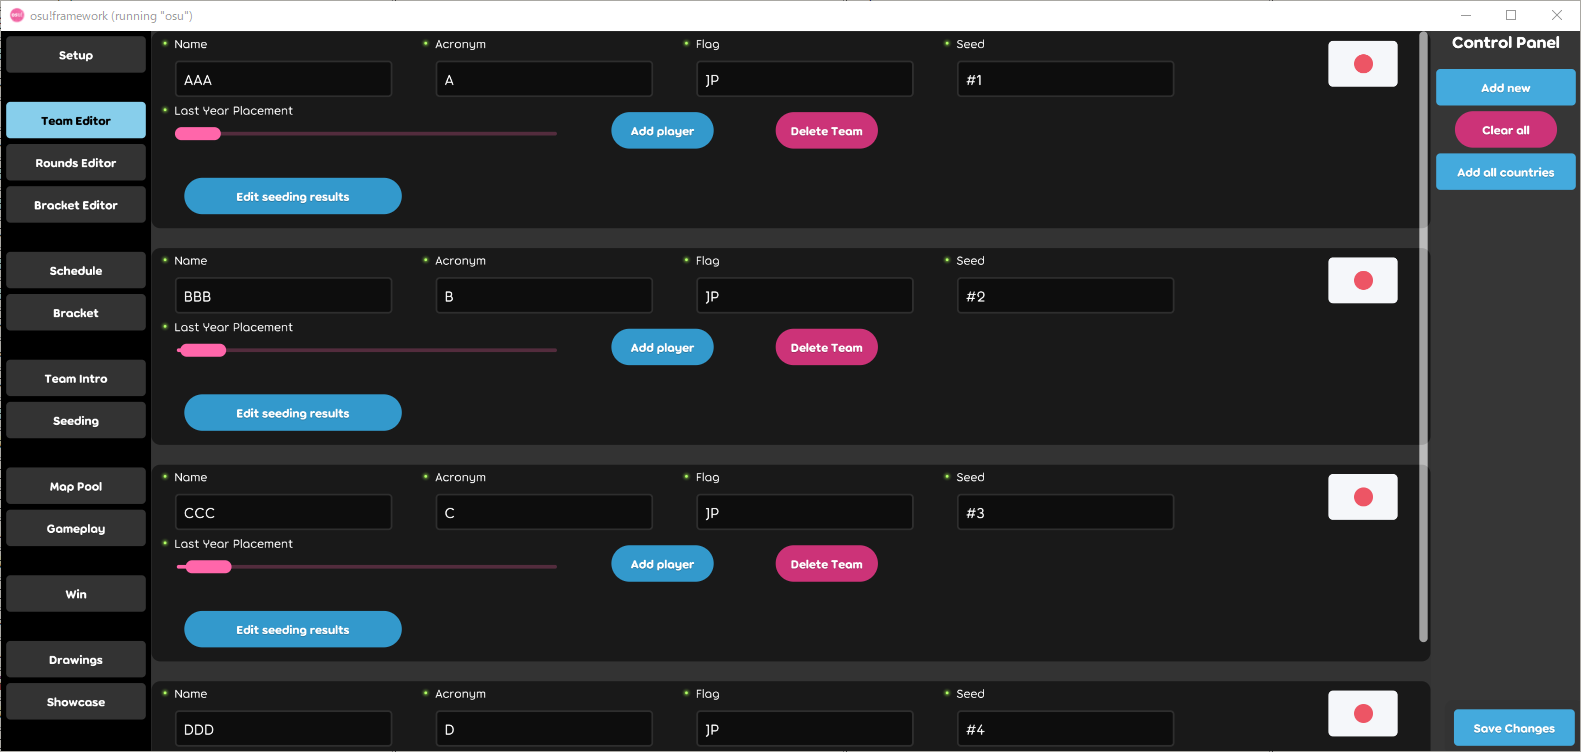
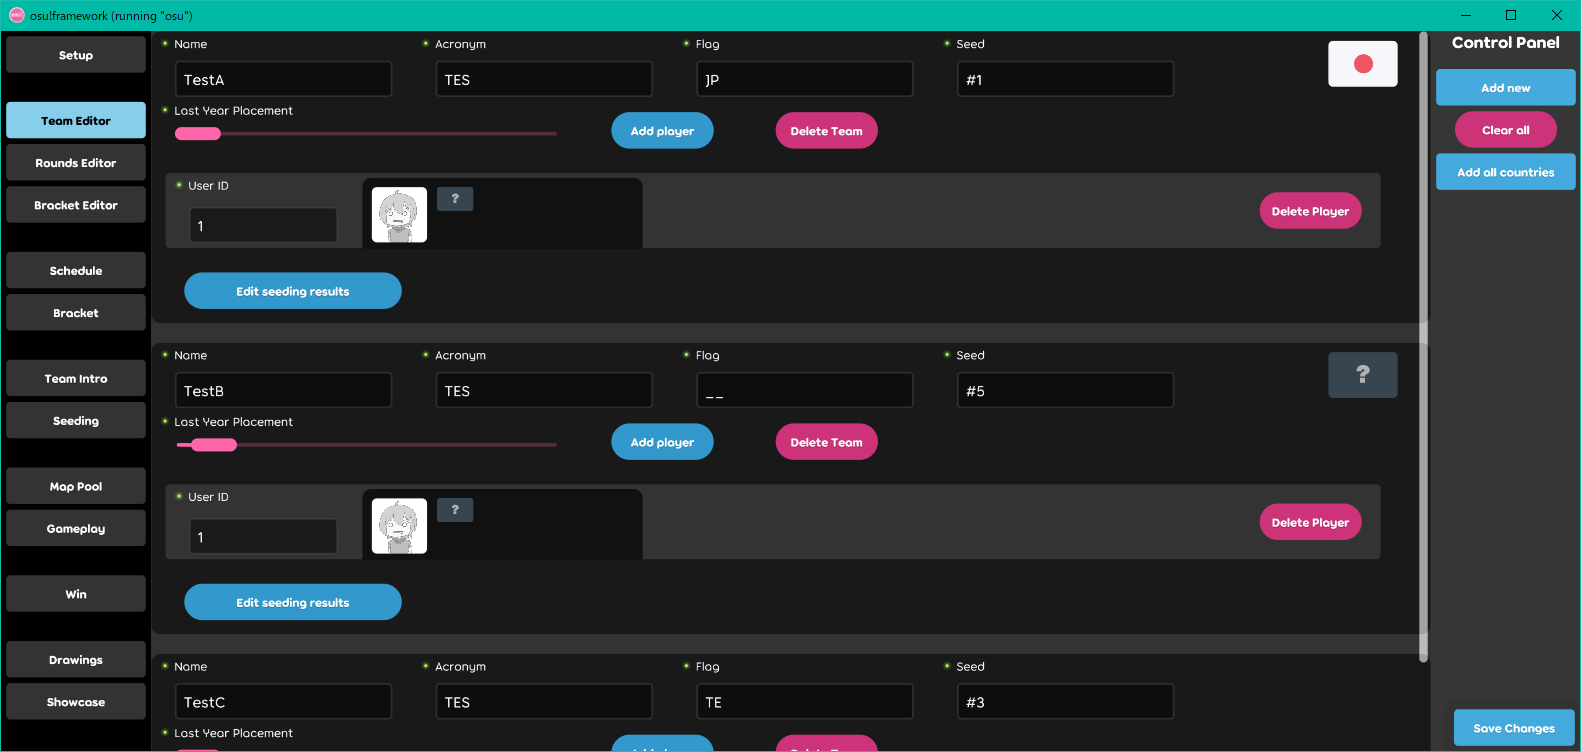
2022/01/16 progress

diff --git a/docs/osu_lazer/team_editor.md b/docs/osu_lazer/team_editor.md
@@ -1,5 +1,5 @@
 ---
-sidebar_position: 3
+sidebar_position: 4
 ---
 
 # Team Editor
@@ -14,27 +14,65 @@ Team Editorでは参加するチームとプレイヤーの情報を登録しま
 
 ### ① Name
 
+チーム(プレイヤー)名を入力する欄です。
+
 ### ② Acronym
+
+いろんな場面で使われる略称名です。プレイヤー名の場合いい感じにしてあげましょう。
 
 ### ③ Flag
 
+そのチーム(プレイヤー)の国を指定します。国名は大文字で、`ISO 3166-1 alpha-2`基準で入力します。特殊な国名として`__`が存在し、不明な国の場合に使うことができます。
+
+:::note カスタムフラグアイコンを使用する
+
+カスタムフラグアイコンを使用するには、プリセットフォルダーに`Flags`フォルダーを作成して、任意の名前で画像ファイルを入れるだけです。
+
+使用するには、Flagの入力欄に画像ファイルの名前と同じ名前を入れることで使用できます。
+
+:::
+
 ### ④ Seed
+
+簡単に言えば予選の総合順位を入力する場所です。Seedingで使用するテキストですが、単純にこの入力欄に入力された文字のままSeedingで使われるため、順位を入力する場合は`#1`のように入力したほうが良いです。
 
 ### ⑤ Last Year Placement
 
+前回開かれたときの最終順位を入れる欄です。初回の場合は全員1位にしたりするのがいいです。
+
 ### ⑥ Add player
 
+チームにプレイヤーを追加します。チームではない場合も追加しておいた方が良いです。
+
 ### ⑦ Delete Team
+
+チーム(プレイヤー)を削除します。
+
+### ⑧ User ID
+
+参加するプレイヤーのユーザーIDを入力します。ユーザーIDはosu!の公式webページのプレイヤープロフィールのURLに`https://osu.ppy.sh/users/<ユーザーID>`という形で存在します。
+
+### ⑨ Delete Player
+
+プレイヤーを削除します。
 
 ## Control Panel
 
 ### ① Add new
 
+チーム(プレイヤー)を作成します。
+
 ### ② Clear all
+
+追加したチーム(プレイヤー)をすべて削除します。
 
 ### ③ Add all countries
 
+内部に登録されている全部の国を一度に追加します。世界大会などに有効です。
+
 ## Edit seeding results
+
+この画面は予選結果を入力する画面になります。予選が存在しない場合は入力する必要ありません。
 
 ![ESR](/img/osu_lazer/esr.png)
 
@@ -42,22 +80,42 @@ Team Editorでは参加するチームとプレイヤーの情報を登録しま
 
 ### ① Mod
 
+Mod名を入力します。FreeModなら`FM`だったり、NoModだったら`NM`と書いたりします。
+
 ### ② Seed(Mod別)
+
+そのMod内での順位を入力する欄です。
 
 ### ③ Add beatmap
 
+Modに対応した譜面を追加します。
+
 ### ④ Beatmap ID
+
+譜面IDを入力します。BeatmapIDとBeatmapsetIDが存在しますが、こちらではBeatmapIDの方になります。BeatmapIDはosu!の公式webページの譜面情報のURLに`https://osu.ppy.sh/beatmapsets/<Beatmap*set*ID>#<モード名>/<BeatmapID>`という形で存在します。
 
 ### ⑤ Seed(譜面別)
 
+その譜面内での順位を入力する欄です。
+
 ### ⑥ Score
+
+その譜面のスコアを入力する欄です。
 
 ### ⑦ Delete Beatmap
 
+譜面を削除します。
+
 ### ⑦ Delete result
+
+そのModの結果を削除します。
 
 ## Control Panel
 
 ### ① Add new
 
+結果を追加します。
+
 ### ② Clear all
+
+全部の結果を削除します。

diff --git a/docs/osu_lazer/setup.md b/docs/osu_lazer/setup.md
@@ -1,5 +1,5 @@
 ---
-sidebar_position: 2
+sidebar_position: 3
 ---
 
 # Setup
@@ -12,10 +12,39 @@ Setupではオーバーレイを使う際の初期設定的なものをします
 
 ## ① Current IPC source
 
+トーナメントクライアントのフォルダーを指定するところです。フォルダーを指定をするポップアップに少々癖がありますが、基本的には`..`を押すと表示されている階層フォルダーの上の階層に移動し、フォルダーを押すとそのフォルダーに移動します。インストールされているトーナメントクライアントのフォルダー階層に移動したら`Select stable path`を押すことで適切な場合設定できます。
+
+:::caution 注意
+
+指定する際に、トーナメントクライアントに空の`ipc.txt`を作成する必要があります。作成をしないと`Select stable path`を押しても以下のメッセージが表示されて指定ができません。
+
+![IPC Invalid](/img/osu_lazer/ipc_invalid.png)
+
+```txt title=日本語訳
+選択したフォルダは有効なIPCディレクトリじゃないよ！
+
+osu!のCutting Edge版がインストールされているフォルダーを選択して、
+その中に空のipc.txtファイルがあることを確認してね！なかったら作成しよう！
+```
+
+:::
+
 ## ② Current User
+
+現在ログインしているユーザーが表示されます。もしログインされていない場合はログインしましょう。
 
 ## ③ Ruleset
 
+大会で使用するゲームモードを指定します。
+
 ## ④ Current tournament
 
+プリセットを選択する欄です。プリセットを新しく作成するには`%APPDATA%\osu\tournaments`に新しくフォルダーを作成するだけで作成できます。作成した後再起動しないと表示されません。
+
+別のプリセットを選択後、`Close osu!`を押して閉じた後起動すると選択したプリセットに変更されています。
+
 ## ⑤ Stream area resolution
+
+メイン画面のサイスを変更します(<u>**左右のツールバーはサイズに含まれないので注意してください！**</u>)。
+
+変更する際は縦の解像度の値を入力し、`Set height`を押します。そうすると自動的にメイン画面が16:9で合わせられたサイズにウィンドウが変更します。ツールバーがあるので少し横長になるので、モニターが`1920x1080`の場合は`1280x720`で設定することを推奨します。

diff --git a/docs/osu_lazer/common_feature.md b/docs/osu_lazer/common_feature.md
@@ -1,0 +1,29 @@
+---
+sidebar_position: 2
+---
+
+# 全項目共通機能
+
+各項目の説明に入っていく前に、各項目共通で存在する機能や操作説明を説明します。
+
+## 左のツールバー
+
+左のツールバーで各項目(場面)に移動します。項目によっては自動で移動するものもあるので注意してください。
+
+## Control Panel
+
+### Save Changes
+
+現在のデータを保存します。おそらく1回押せばすべての項目が保存されてるはずです。
+
+:::caution 注意
+
+なぜか～Editorの項目以外でSave Changesを押すと、押しても保存されない場合があります。とくに試合終了後にBracket EditorではなくBracketで保存した場合に、試合情報が正常に保存されていない場合があったのでご注意ください。
+
+:::
+
+## プリセットフォルダー
+
+osu!lazerにはプリセットというものが存在し、各大会ごとに設定を変えることができます。
+
+フォルダーはすべて`%APPDATA%\osu\tournaments`に保存され、フォルダー名がプリセット名になります。デフォルトで`default`フォルダーがあります。そのプリセットフォルダーの中にいろんなフォイルを入れていきます。スキニングやDrawingsの構成ファイルを入れる際に使うのでおさえておきましょう。

diff --git a/docs/osu_lazer/how_to_open_client.md b/docs/osu_lazer/how_to_open_client.md
@@ -16,7 +16,7 @@ sidebar_position: 1
 
 ## 1. osu!lazerをGitHubからインストーラーをダウンロードする
 
-githubにある[ppyの公式レポジトリ](https://github.com/ppy/osu)からosu!lazerのインストーラーをダウンロードします。
+GitHubにある[ppyの公式レポジトリ](https://github.com/ppy/osu)からosu!lazerのインストーラーをダウンロードします。
 
 念の為ですがwindowsのインストーラーのURLは[こちら](https://github.com/ppy/osu/releases/latest/download/install.exe)です。
 

diff --git a/docs/osu_lazer/troubleshooting.md b/docs/osu_lazer/troubleshooting.md
@@ -1,5 +1,5 @@
 ---
-sidebar_position: 15
+sidebar_position: 16
 ---
 
 # トラブルシューティング

diff --git a/docs/osu_lazer/bracket_editor.md b/docs/osu_lazer/bracket_editor.md
@@ -1,5 +1,5 @@
 ---
-sidebar_position: 5
+sidebar_position: 6
 ---
 
 # Bracket Editor

diff --git a/docs/osu_lazer/rounds_editor.md b/docs/osu_lazer/rounds_editor.md
@@ -1,5 +1,5 @@
 ---
-sidebar_position: 4
+sidebar_position: 5
 ---
 
 # Rounds Editor

diff --git a/docs/osu_lazer/drawings.md b/docs/osu_lazer/drawings.md
@@ -1,5 +1,5 @@
 ---
-sidebar_position: 13
+sidebar_position: 14
 ---
 
 # Drawings

diff --git a/docs/osu_lazer/gameplay.md b/docs/osu_lazer/gameplay.md
@@ -1,5 +1,5 @@
 ---
-sidebar_position: 11
+sidebar_position: 12
 ---
 
 # Gameplay

diff --git a/docs/osu_lazer/map_pool.md b/docs/osu_lazer/map_pool.md
@@ -1,5 +1,5 @@
 ---
-sidebar_position: 10
+sidebar_position: 11
 ---
 
 # Map Pool

diff --git a/docs/osu_lazer/showcase.md b/docs/osu_lazer/showcase.md
@@ -1,5 +1,5 @@
 ---
-sidebar_position: 14
+sidebar_position: 15
 ---
 
 # Showcase

diff --git a/docs/osu_lazer/team_intro.md b/docs/osu_lazer/team_intro.md
@@ -1,5 +1,5 @@
 ---
-sidebar_position: 8
+sidebar_position: 9
 ---
 
 # Team Intro
